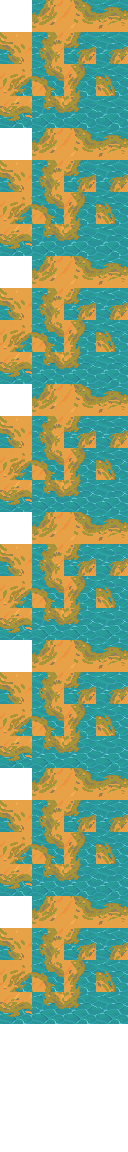
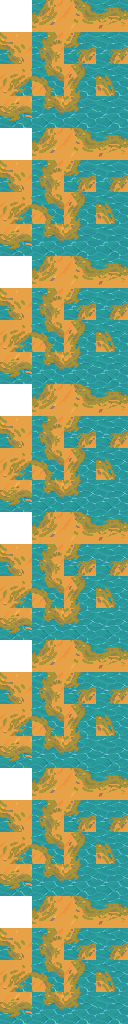
fix(epic): vaha animasyonu 8 kare — 9. kare boş ayraç kolonuydu (gölet yanıp sönüyordu)

diff --git a/src/tilemap.c b/src/tilemap.c
@@ -1788,7 +1788,7 @@ void tilemap_render(R2D *renderer, R2DTexture **tileTextures, const Camera *came
             {
                 tile_draw(renderer, tileTextures, 15, dst);   // 15 = kum
                 if (oasisWaterTex != NULL) {   // iç su = kıyı setinin kendi suyu
-                    float wf = (float)((SDL_GetTicks() / 140) % 9);
+                    float wf = (float)((SDL_GetTicks() / 140) % 8);   // 8 kare (9. boş ayraçtı)
                     SDL_FRect wsrc = { wf * 32.0f, 0, 32, 32 };
                     r2d_draw_texture(renderer, oasisWaterTex, &wsrc, &dst);
                 }
@@ -1842,8 +1842,8 @@ void tilemap_render(R2D *renderer, R2DTexture **tileTextures, const Camera *came
     // ÇÖL AUTOTILE: taban pass'i bitti — su ve kaya sınır overlay'leri
     // (yalnız bu id'leri içeren haritada iş yapar; diğerlerinde mask hep 0)
     if (dsrWaterTex != NULL) {
-        // vaha kıyısı ANİMASYONLU (9 kare, blok dikey): dalga kuma vurur
-        float of = (float)((SDL_GetTicks() / 140) % 9) * 128.0f;
+        // vaha kıyısı ANİMASYONLU (8 kare, blok dikey): dalga kuma vurur
+        float of = (float)((SDL_GetTicks() / 140) % 8) * 128.0f;   // 8 kare
         dsr_dual_pass(renderer, dsrWaterTex, DSR_WATER, 32.0f, of, camera, colL, rowT, colR, rowB);
         // saf ERW test göleti (21): aynı kıyı atlası — kum halkasıyla sarılır
         dsr_dual_pass(renderer, dsrWaterTex, 21, 32.0f, of, camera, colL, rowT, colR, rowB);

diff --git a/scripts/bake_erw_wave5.py b/scripts/bake_erw_wave5.py
@@ -36,12 +36,13 @@ mask_atlas(DS, "Rocky ground-to-sand", "rocky_atlas.png")
 
 # 3) VAHA KIYISI ANİMASYONLU (Hakan: "kıyıda dalga animasyonu var") —
 # Oasis sheet'inde parçalar kolon 1 ve 10'da; animasyon YATAY: kare başına
-# 1 kolon sağa, 9 kare. Maske atlası kare başına 4×4 blok, bloklar DİKEY
+# 1 kolon sağa, 8 KARE (kolon 9 ve 18 BOŞ AYRAÇ — 9 saymak göleti
+# kare başı yok ediyordu, Hakan bulgusu). Maske atlası kare başına 4×4 blok, bloklar DİKEY
 # istiflenir (src.y += kare*128); iç su ayrı 9 karelik yatay şerit.
 DSW = P("Epic RPG World - Desert V1.6/tiledmap editor/Tilesets/water-to-sand.tsx")
 img, cols, bm = wang(DSW, "water-to-sand")
 w, h, px = sheet(img)
-FR = 9
+FR = 8
 atlas = bytearray(4 * TILE * (4 * TILE * FR) * 4)
 for f in range(FR):
     for m, tids in bm.items():
